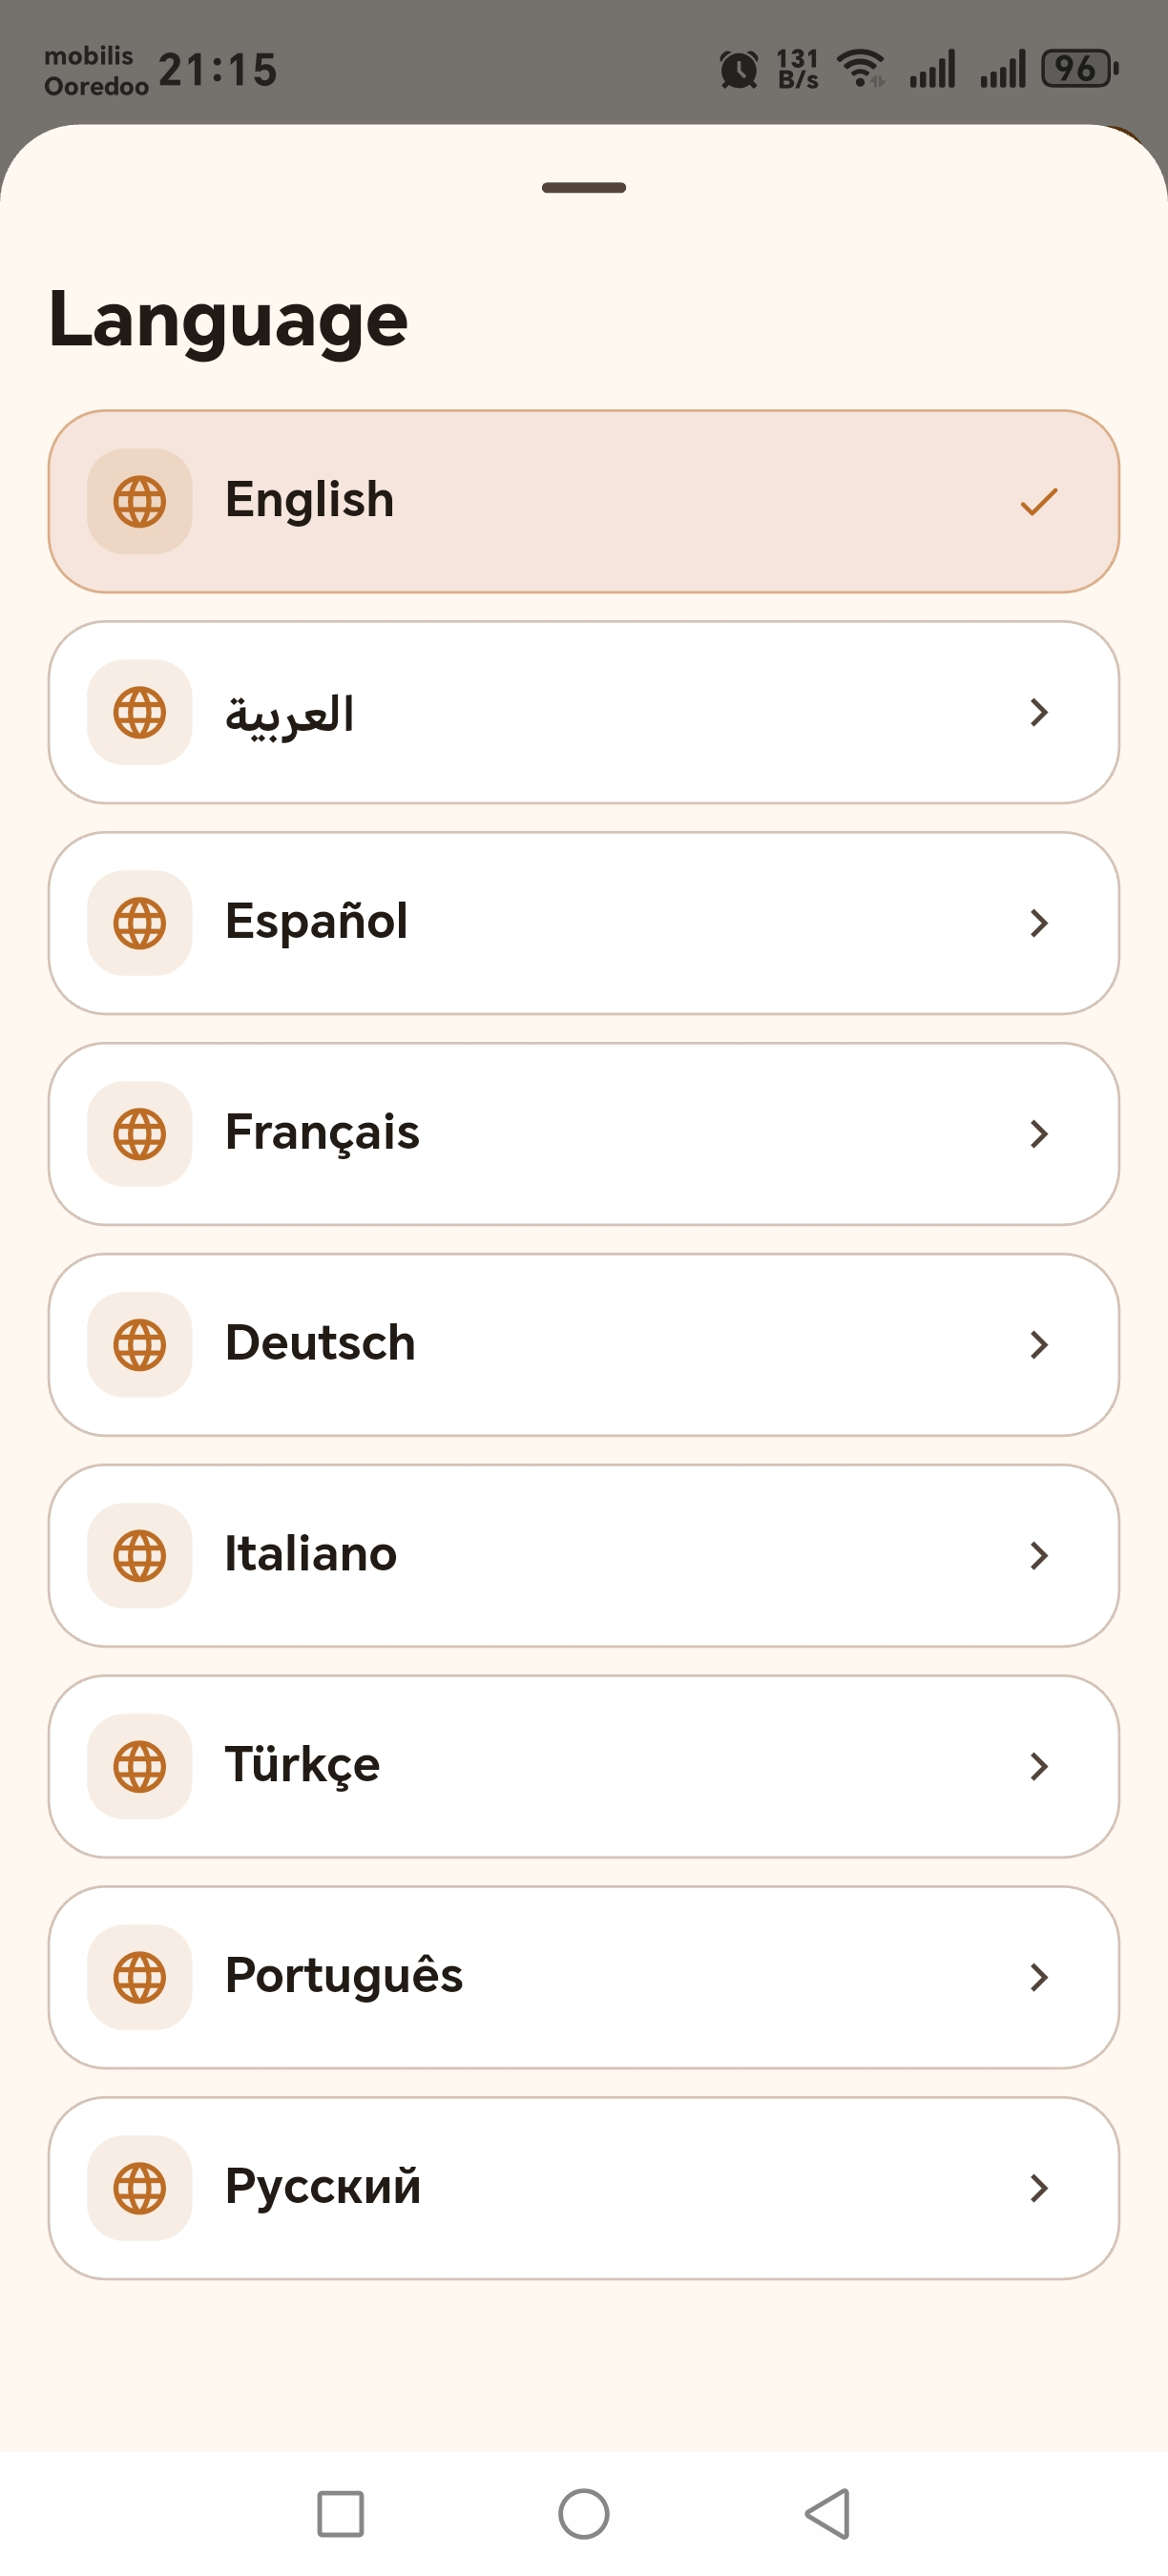
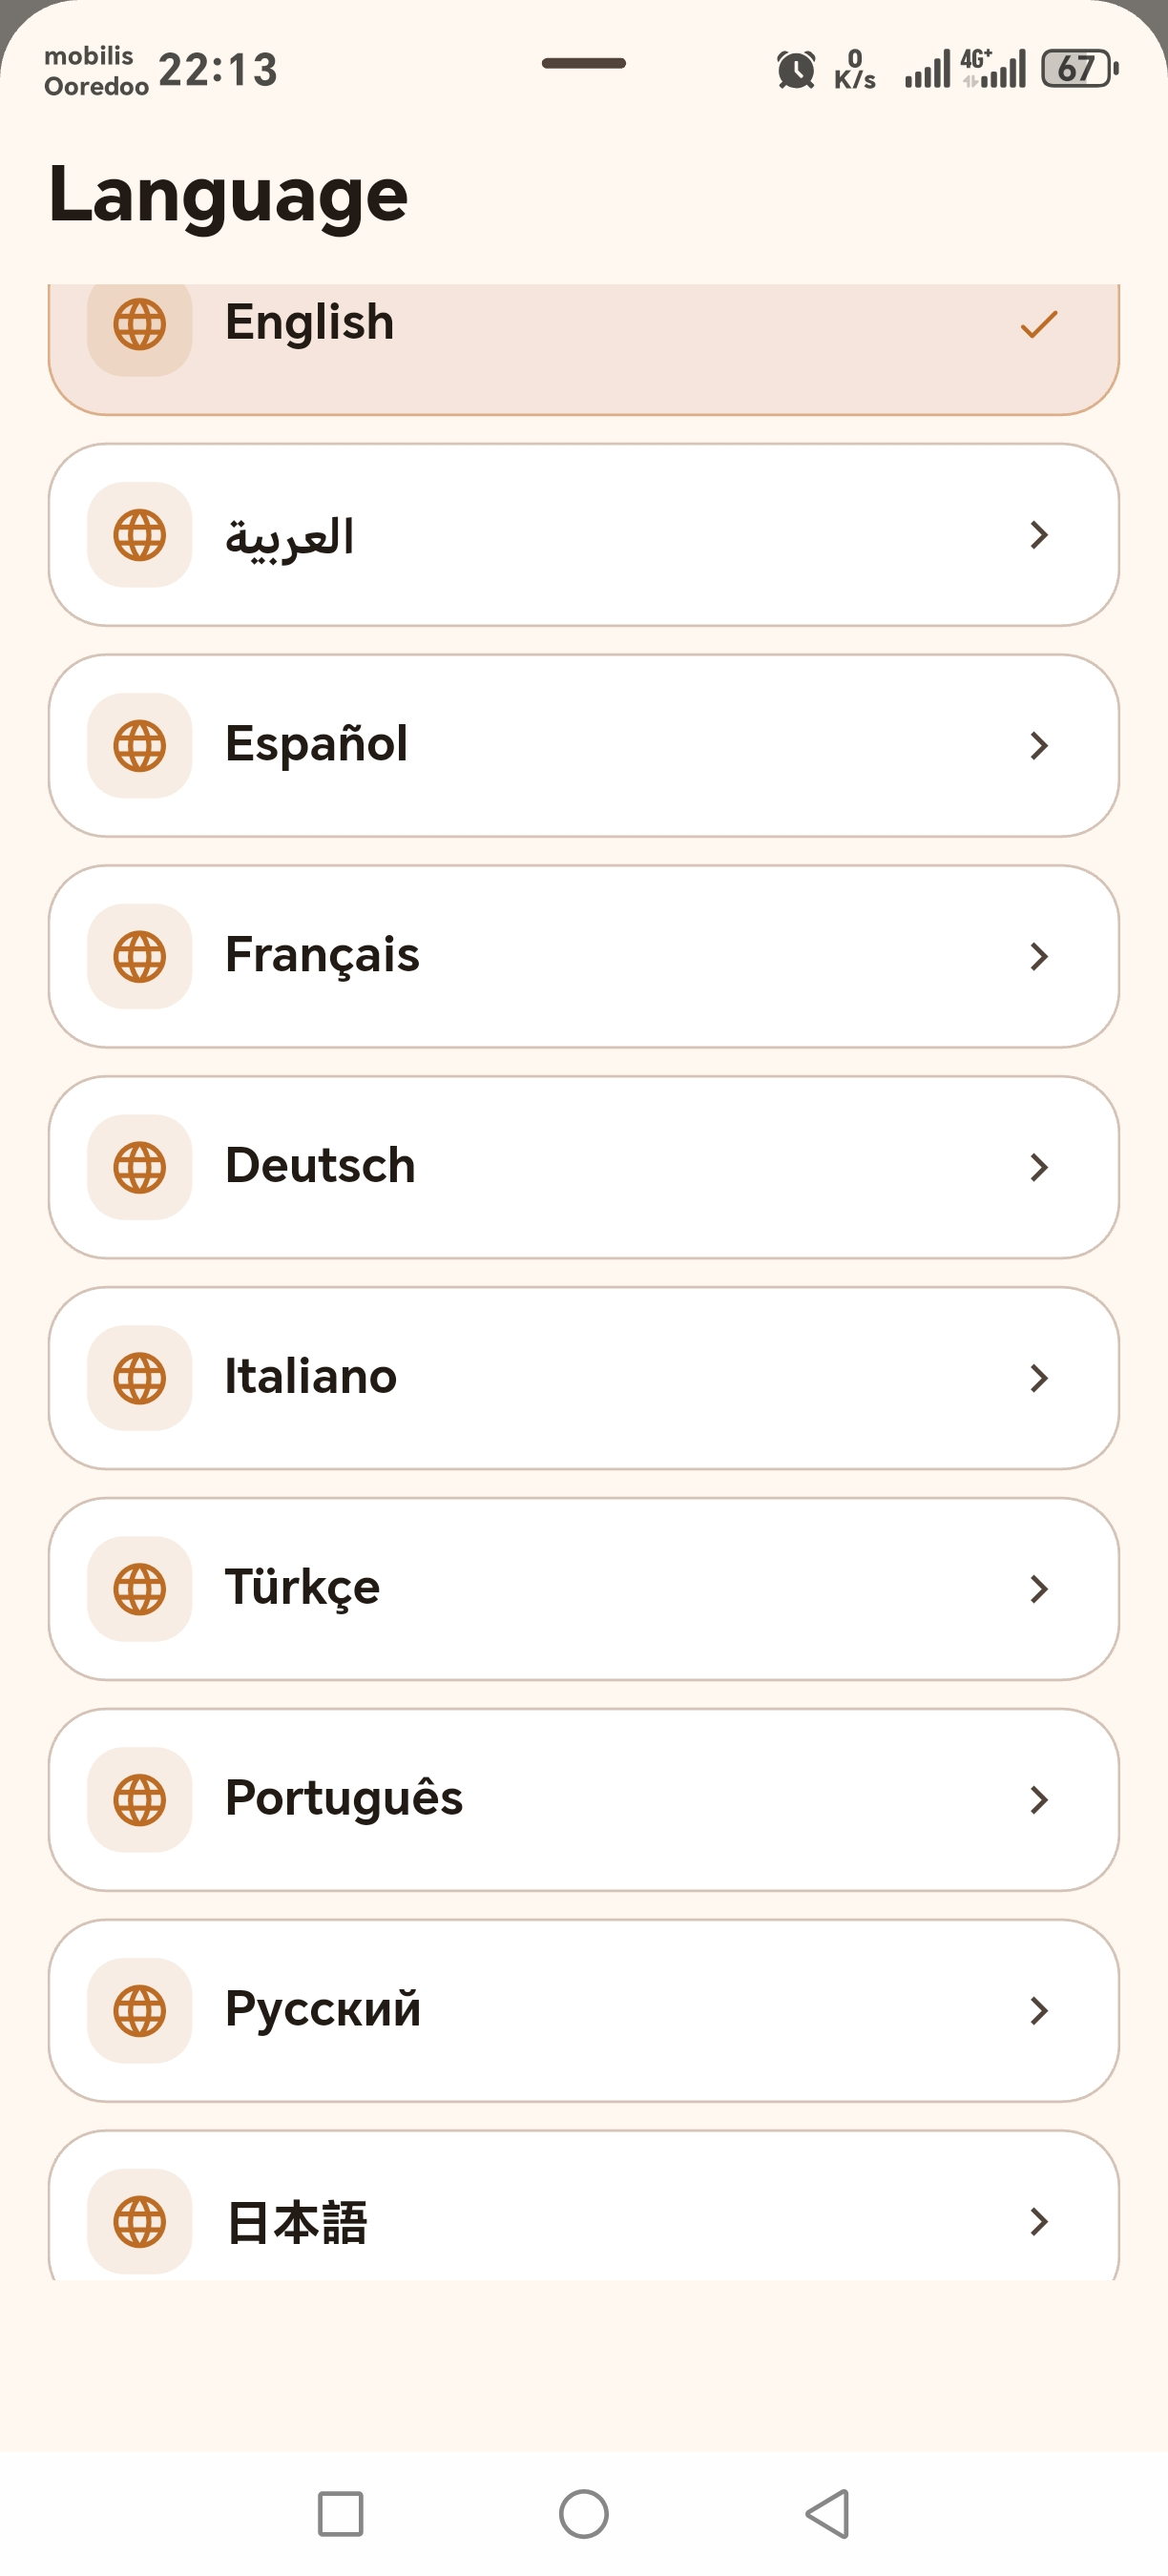
Add Japanese support and update language screenshot

Changed region(s): [[0.0, 0.0, 1.0, 0.9022]]

diff --git a/index.html b/index.html
@@ -784,7 +784,7 @@
             <div class="max-w-3xl">
               <h3 class="section-heading animate-on-scroll animate-delay text-3xl font-bold tracking-tight text-ink sm:text-4xl">🌍 Supported Languages</h3>
               <p class="mt-4 text-lg leading-8 text-slate-600">
-                CashWise supported languages include English, Arabic, French, Spanish, German (Deutsch), Italian, Portuguese, Turkish, and Russian, making it a multilingual finance app designed for accessible global money management.
+                CashWise supported languages include English, Arabic, French, Spanish, German (Deutsch), Italian, Portuguese, Turkish, Russian, and Japanese, making it a multilingual finance app designed for accessible global money management.
               </p>
               <p class="mt-4 text-lg leading-8 text-slate-600">
                 Helps you track expenses in your language with inclusive budgeting tools that make money management easier wherever you live.
@@ -935,7 +935,7 @@
               </figure>
               <figure class="aspect-[9/16] overflow-hidden rounded-3xl border border-line bg-slate-50 shadow-soft">
                 <img
-                  src="assets/images/language.jpg?v=20260618-1"
+                  src="assets/images/language.jpg"
                   alt="Language selection screenshot"
                   class="h-full w-full object-contain bg-slate-50 p-2"
                   loading="lazy"